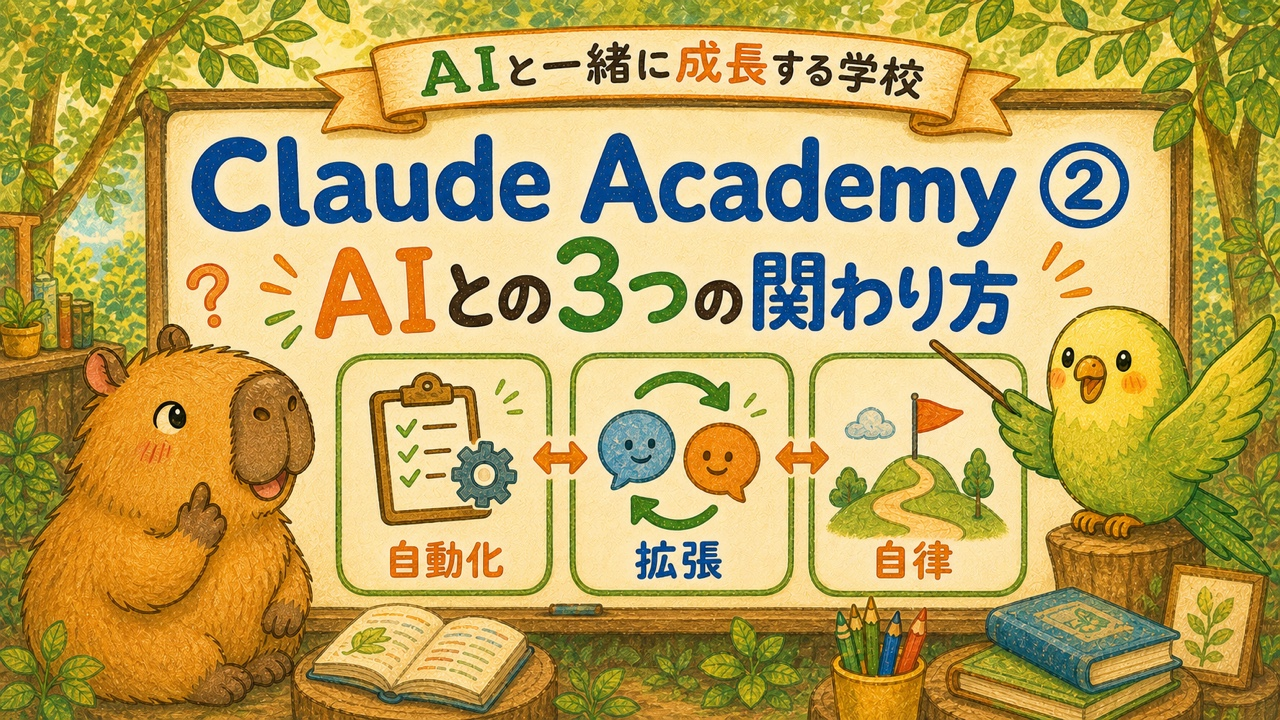
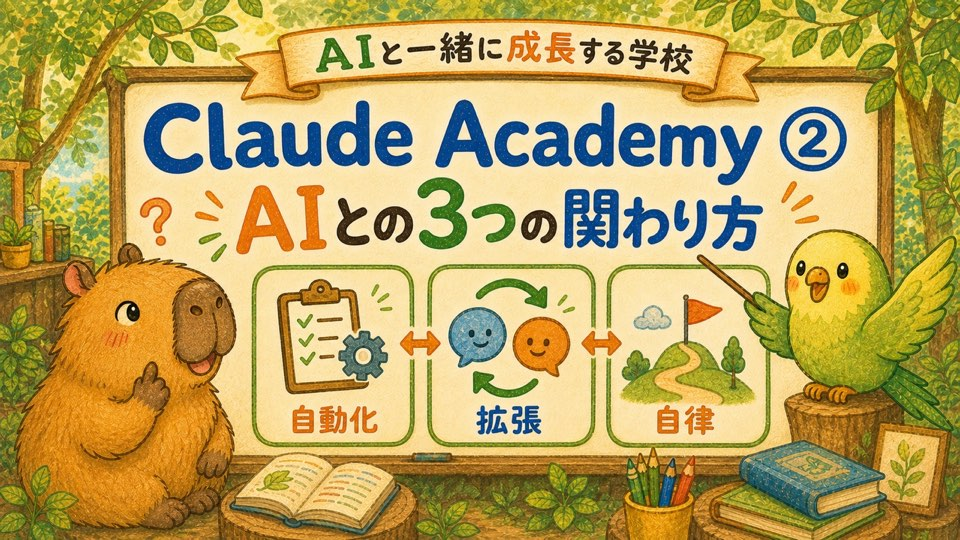
①〜⑤すべてにサムネイルを入れた
- ③④⑤は投稿の実物から取得（リベシティのCDN・ログイン不要で取得できることを確認）
- ①のサムネは森にあったのに未反映だったので追加
- 全5枚を960px幅・品質62へ揃えた（②だけ584KBだったのを191KBに）
- プレースホルダ表示は0件に。assets合計 800KB
- doc-gate: 375px/1280px とも基準割れ0（最小比4.63・最小12.5px）

diff --git a/index.html b/index.html
@@ -535,8 +535,8 @@
         summary: "Claudeを『ものすごく頭のいい転校生』にたとえて、会話・Project・Skills・外部連携をやさしく紹介します。",
         point: "操作を暗記する学校ではなく、人間とAIが一緒に成長する学校。",
         url: "https://libecity.com/room_list?room_id=m74BCueTGd0wL6uxHCCZ&comment_id=12cHh1Tz4WsXvoxmlafi",
-        image: "",
-        imageAlt: ""
+        image: "assets/lesson-01.jpg",
+        imageAlt: "カピバラとインコが、Claude Academyがどんな学校かを紹介するイラスト"
       },
       {
         id: "lesson-02",
@@ -557,8 +557,8 @@
         summary: "委任力・記述力・評価力・倫理的責任の4つを、前回の『最高の休日プラン』がうまくいかなかった話からほどきます。",
         point: "4Dは毎回やる宿題じゃなく、うまくいかなかった時に戻ってくる地図。",
         url: "https://libecity.com/room_list?room_id=m74BCueTGd0wL6uxHCCZ&comment_id=z2xJP7abLNFt4xX6GozN",
-        image: "",
-        imageAlt: ""
+        image: "assets/lesson-03.jpg",
+        imageAlt: "カピバラとインコが、委任力・記述力・評価力・責任の4つの力を学ぶイラスト"
       },
       {
         id: "lesson-04",
@@ -568,8 +568,8 @@
         summary: "AIは『次に何が来そう？』を予想し続けている、という仕組みを穴埋めクイズでほどき、AIと互いを知る実験へつなげます。",
         point: "AIを使いこなす学校ではなく、AIと一緒に成長する学校。",
         url: "https://libecity.com/room_list?room_id=m74BCueTGd0wL6uxHCCZ&comment_id=m71yzbznvNB3LK9A8WQX",
-        image: "",
-        imageAlt: ""
+        image: "assets/lesson-04.jpg",
+        imageAlt: "カピバラとインコが、AIが次の言葉を予想して答えを作る仕組みを穴埋めで学ぶイラスト"
       },
       {
         id: "lesson-05",
@@ -579,8 +579,8 @@
         summary: "AIは自然そうな答えを作るのが得意なぶん、自信満々に間違うこともある。覚えていられる範囲があることも含めてほどきます。",
         point: "コンテキストとは、自分が知っていてAIが知らないことの差。",
         url: "https://libecity.com/room_list?room_id=m74BCueTGd0wL6uxHCCZ&comment_id=25uUoqDiS4LkvkKrC1AX",
-        image: "",
-        imageAlt: ""
+        image: "assets/lesson-05.jpg",
+        imageAlt: "カピバラとインコが、AIの得意なことと苦手なことを並べて見ているイラスト"
       }
     ];
 
